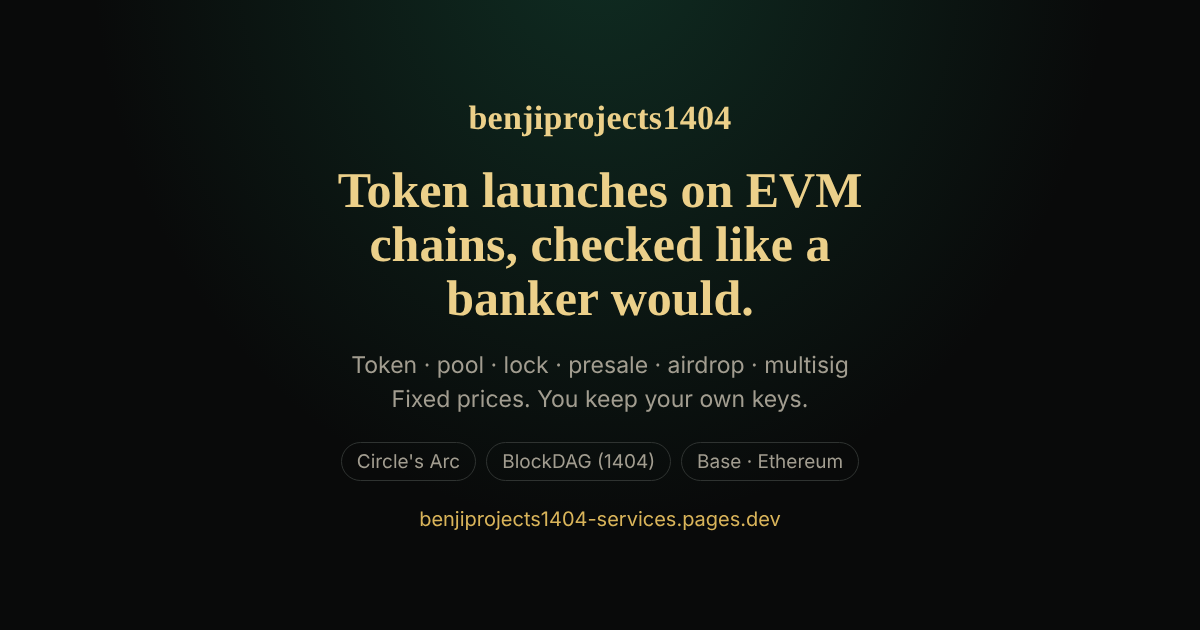
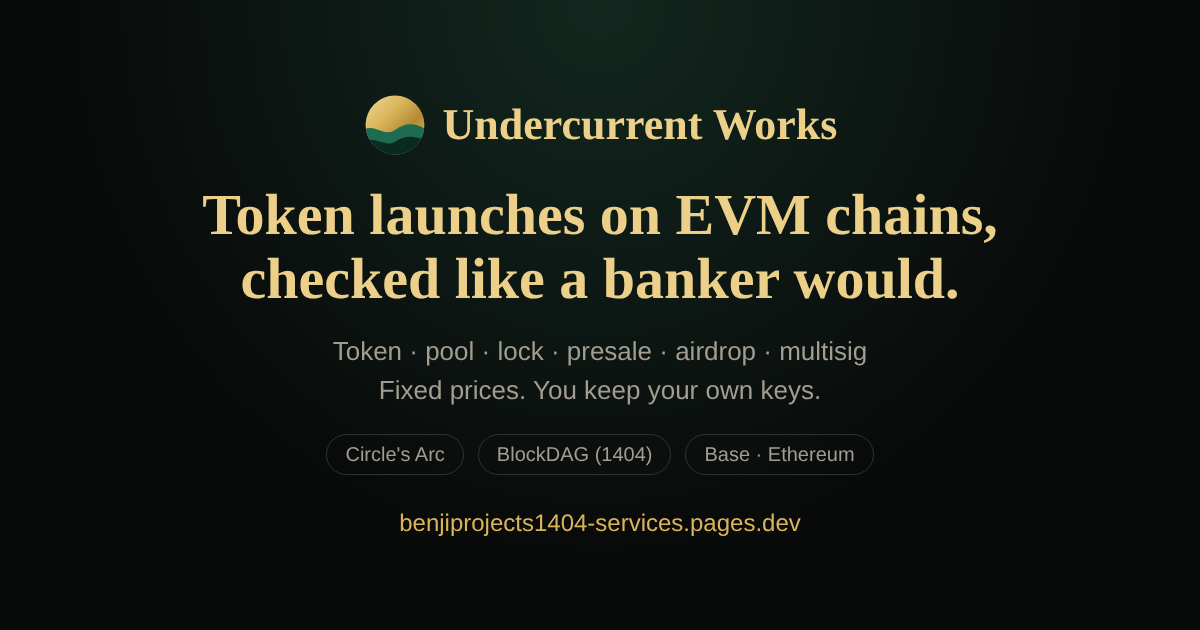
Rebrand trading name to Undercurrent Works
Claude-Session: https://claude.ai/code/session_01F9cXhyPHqQiEussN9AmFCx

diff --git a/index.html b/index.html
@@ -3,9 +3,9 @@
 <head>
 <meta charset="utf-8">
 <meta name="viewport" content="width=device-width, initial-scale=1">
-<title>benjiprojects1404 · Build &amp; launch on EVM chains</title>
+<title>Undercurrent Works · Build &amp; launch on EVM chains</title>
 <meta name="description" content="Token launches on Ethereum, Base, BNB Chain, Arbitrum, Polygon, Circle's Arc and BlockDAG (chain 1404), built and checked properly: token, pool, liquidity lock, presale, airdrop, multisig and a plain-spoken site. Fixed prices, your keys throughout.">
-<meta property="og:title" content="Build & launch on EVM chains — benjiprojects1404">
+<meta property="og:title" content="Build & launch on EVM chains — Undercurrent Works">
 <meta property="og:description" content="Token, pool, liquidity lock, presale, airdrop, multisig and site. Fixed prices. You keep your keys.">
 <meta property="og:image" content="/og-image.png">
 <meta property="og:type" content="website">
@@ -123,7 +123,7 @@
 <body>
 <div class="wrap">
   <header class="top">
-    <a class="brand" href="/">benji<span>projects</span>1404</a>
+    <a class="brand" href="/"><img src="undercurrent-mark.svg" alt="" width="28" height="28" style="vertical-align:-7px;margin-right:9px">Undercurrent <span>Works</span></a>
     <nav aria-label="Sections">
       <a href="#prices">Prices</a>
       <a href="#review">Code review</a>
@@ -303,7 +303,7 @@
     </dl>
   </div>
   <footer>
-    <span>benjiprojects1404, based in Thailand</span>
+    <span>Undercurrent Works, based in Thailand</span>
     <span>Nothing here is financial, investment or legal advice.</span>
   </footer>
 </div>

diff --git a/riptide/index.html b/riptide/index.html
@@ -75,7 +75,7 @@ footer{max-width:980px;margin:0 auto;padding:0 16px 40px;color:var(--muted);font
 <header>
   <a class="brand" href="./"><img src="mark.svg" alt="">Riptide</a>
   <span class="spacer"></span>
-  <a class="back" href="../">benjiprojects1404 ↗</a>
+  <a class="back" href="../">Undercurrent Works ↗</a>
   <span class="pill" id="statusPill">Connecting…</span>
 </header>
 
@@ -157,7 +157,7 @@ footer{max-width:980px;margin:0 auto;padding:0 16px 40px;color:var(--muted);font
 </main>
 
 <footer>
-  Riptide by <a href="../">benjiprojects1404</a> · Data: Arc mainnet (Uniswap v3), Binance and Coinbase public APIs · <a href="https://github.com/benjiprojects1404-maker/benjiprojects1404-services/tree/main/riptide">Source</a> · Sister tool: <a href="https://chordotc.com/crescent/">Crescent</a>
+  Riptide by <a href="../">Undercurrent Works</a> · Data: Arc mainnet (Uniswap v3), Binance and Coinbase public APIs · <a href="https://github.com/benjiprojects1404-maker/benjiprojects1404-services/tree/main/riptide">Source</a> · Sister tool: <a href="https://chordotc.com/crescent/">Crescent</a>
 </footer>
 
 <script>
